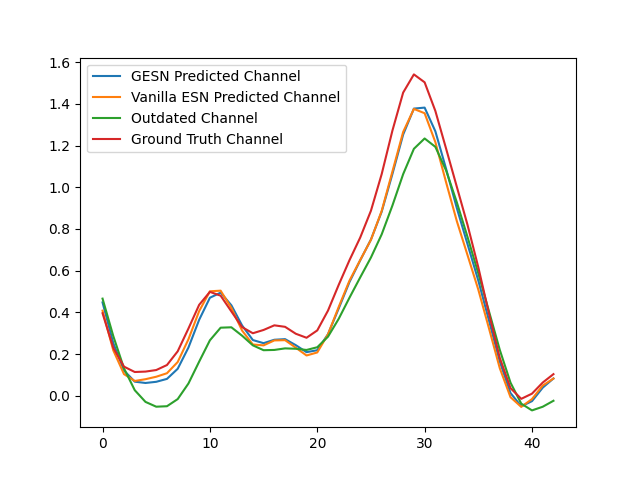
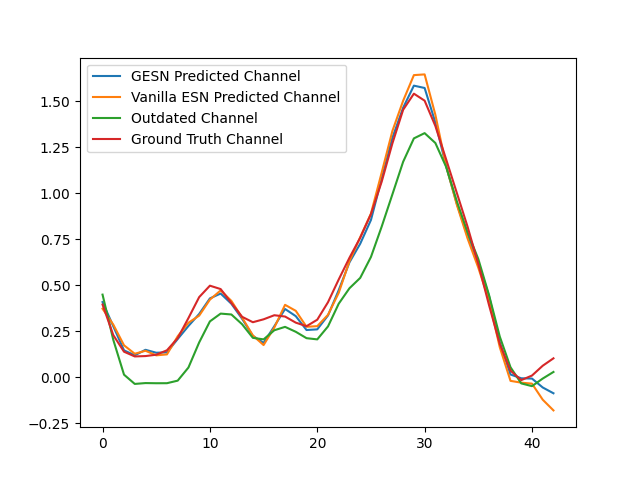
adding edge weighting to gesn

diff --git a/dmimo/channel/gesn_pred_freq_mimo.py b/dmimo/channel/gesn_pred_freq_mimo.py
@@ -9,7 +9,18 @@ import itertools
 
 class gesn_pred_freq_mimo:
 
-    def __init__(self, architecture, len_features=None, num_rx_ant=8, num_tx_ant=8, max_adjacency='all', method='per_node_pair', num_neurons=None):
+    def __init__(self, 
+                architecture, 
+                len_features=None, 
+                num_rx_ant=8, 
+                num_tx_ant=8, 
+                max_adjacency='all', 
+                method='per_node_pair', 
+                num_neurons=None,
+                cp_len=64,
+                num_subcarriers=512,
+                subcarrier_spacing=15e3,
+                edge_weighting_method='model_based'):
         
         ns3_config = Ns3Config()
         self.rc_config = RCConfig()
@@ -47,6 +58,10 @@ class gesn_pred_freq_mimo:
         self.reg = self.rc_config.regularization
         self.enable_window = self.rc_config.enable_window
         self.history_len = self.rc_config.history_len
+        self.edge_weighting_method = edge_weighting_method
+        self.cp_len = cp_len
+        self.num_subcarriers = num_subcarriers
+        self.subcarrier_spacing = subcarrier_spacing
 
         seed = 10
         self.RS = np.random.RandomState(seed)
@@ -62,6 +77,7 @@ class gesn_pred_freq_mimo:
             self.num_tx_nodes = int((self.N_t - ns3_config.num_bs_ant)/ns3_config.num_ue_ant) + 1
             self.num_rx_nodes = int((self.N_r - ns3_config.num_bs_ant)/ns3_config.num_ue_ant) + 1
             self.N_v = self.num_tx_nodes * self.num_rx_nodes                                            # number of vertices in the graph
+            self.N_e = int((self.N_v*(self.N_v-1))/2)                                                   # number of edges in the graph (assumes fully connected)
             if self.rc_config.treatment == 'SISO':
                 self.N_f = self.N_RB                                                                        # length of feature vector for each vertex
             else:
@@ -89,7 +105,7 @@ class gesn_pred_freq_mimo:
         # Initialize adjacency matrix (currently static for all time steps)
         if max_adjacency == 'all':
             self.max_adjacency = self.N_v
-        elif max_adjacency == 'k_nearest_neighbors':
+        elif max_adjacency == 'k_nearest_neighbours':
             raise ValueError("\n The knn clustering method has not yet been implemented")
         else:
             self.max_adjacency = max_adjacency
@@ -238,6 +254,9 @@ class gesn_pred_freq_mimo:
             channel_train_gt_list = [curr_channels[-num_training_steps:, rx_idx, tx_idx, :] for rx_idx in range(len(rx_ant_idx)) for tx_idx in range(len(tx_ant_idx))]
             channel_test_input_list = [curr_channels[-self.syms_per_subframe:, rx_idx, tx_idx, :] for rx_idx in range(len(rx_ant_idx)) for tx_idx in range(len(tx_ant_idx))]
 
+            # Weight graph edges
+            self.adjacency_matrix = self.cal_edge_weights(edge_weighting_method=self.edge_weighting_method, csi_history=curr_channels)
+
             # Train the model
             pred_channel_training = self.fitting_time(channel_train_input_list, channel_train_gt_list)
 
@@ -254,6 +273,44 @@ class gesn_pred_freq_mimo:
         channel_pred = tf.convert_to_tensor(channel_pred)
         channel_pred = tf.transpose(channel_pred, perm=[1,2,3,0])
         return channel_pred
+    
+    def cal_edge_weights(self, edge_weighting_method, csi_history):
+        
+        if edge_weighting_method == 'none':
+            adjacency_matrix = np.ones((self.N_v, self.N_v)) - np.eye(self.N_v)
+        elif edge_weighting_method == 'model_based':
+            # Calculate delays:
+            h_time_csi = np.fft.ifft(csi_history, axis=-1)
+            power = np.abs(h_time_csi) ** 2
+            range_power = np.max(power, axis=-1) - np.min(power, axis=-1)
+            threshold = np.min(power, axis=-1) + 0.1 * range_power
+            threshold = threshold[..., np.newaxis]
+            significant_taps = power > threshold
+            
+            # Generate all combinations of TX and RX antennas
+            num_rx_antennas = h_time_csi.shape[1]
+            num_tx_antennas = h_time_csi.shape[2]
+            antenna_combinations = list(itertools.product(range(num_rx_antennas), range(num_tx_antennas)))
+            adjacency_matrix = np.ones((self.N_v, self.N_v))
+            for idx1, (rx_1, tx_1) in enumerate(antenna_combinations):
+                for idx2 in range(idx1 + 1, len(antenna_combinations)):  # Avoid already-selected pairs
+                    rx_2, tx_2 = antenna_combinations[idx2]
+
+                    # print('calculating correlation between {}_{} and {}_{}'.format(rx_1, tx_1, rx_2, tx_2))
+                    # print('idx_1: {}, idx_2: {}'.format(idx1, idx2))
+
+                    taps_1 = significant_taps[:, rx_1, tx_1, :].flatten()  # Flatten across symbols and resource blocks
+                    taps_2 = significant_taps[:, rx_2, tx_2, :].flatten()
+
+                    # Compute correlation coefficient
+                    corr_value = np.corrcoef(taps_1, taps_2)[0, 1]
+                    
+                    # store weights (correlation coefficients) in adjacency matrix
+                    adjacency_matrix[idx1, idx2] = corr_value
+                    adjacency_matrix[idx2, idx1] = corr_value  # Symmetric for undirected graph
+
+        return adjacency_matrix
+
     
     def siso_predict_tmp(self, h_freq_csi_history):
 
@@ -369,7 +426,7 @@ class gesn_pred_freq_mimo:
     def init_weights(self):
 
         matrices = []
-        for _ in range(self.max_adjacency):
+        for _ in range(self.N_v):
             result = self.sparse_mat(self.N_n_per_vertex, self.N_n_per_vertex)
             matrices.append(result)
         self.W_N = np.concatenate(matrices, axis=1)
@@ -496,9 +553,10 @@ class gesn_pred_freq_mimo:
     def return_neighbours_states(self, vertex_idx, internal_states):
 
         if self.max_adjacency == self.N_v:
-            return internal_states
 
-
+            curr_adjacency = self.adjacency_matrix[vertex_idx, :]
+            repeated_adjacency = np.repeat(curr_adjacency, self.N_n_per_vertex)
+            return internal_states * repeated_adjacency
 
     def complex_tanh(self, Y):
         return np.tanh(np.real(Y)) + 1j * np.tanh(np.imag(Y))

diff --git a/dmimo/mu_mimo_gesn_test.py b/dmimo/mu_mimo_gesn_test.py
@@ -171,7 +171,8 @@ class MU_MIMO(Model):
                 rc_predictor = standard_rc_pred_freq_mimo('MU_MIMO', num_rx_ant = 4 + self.cfg.num_rx_ue_sel*2)
             elif self.cfg.predictor == 'gesn':
                 rc_predictor = gesn_pred_freq_mimo('MU_MIMO', num_rx_ant = 4 + self.cfg.num_rx_ue_sel*2, 
-                                                    num_tx_ant=self.cfg.num_tx_ue_sel*2 + 4, max_adjacency='all', method='per_node_pair', num_neurons=16)
+                                                    num_tx_ant=self.cfg.num_tx_ue_sel*2 + 4, max_adjacency='all', method='per_node_pair', 
+                                                    num_neurons=16, edge_weighting_method='model_based')
             
             # Get CSI history
             # TODO: optimize channel estimation and optimization procedures (currently very slow)
@@ -235,7 +236,7 @@ class MU_MIMO(Model):
                 plt.plot(np.real(h_freq_csi_true[0, debug_rx_ant, debug_tx_ant, :, debug_ofdm_sym]), label="Ground Truth Channel")
                 plt.legend()
                 plt.savefig('prediction_comparison')
-                plt.show()
+                # plt.show()
             plot = False
 
             h_freq_csi = rc_predictor.rb_demapper(h_freq_csi)
@@ -594,15 +595,20 @@ def sim_mu_mimo_all(cfg: SimConfig):
 
         total_cycles += 1
         cfg.first_slot_idx = first_slot_idx
-        try:
-            curr_pred_nmse_gesn, curr_pred_nmse_vanilla = sim_mu_mimo(cfg)
+        # try:
+        #     curr_pred_nmse_gesn, curr_pred_nmse_vanilla = sim_mu_mimo(cfg)
 
-            pred_nmse_gesn.append(curr_pred_nmse_gesn)
-            pred_nmse_vanilla.append(curr_pred_nmse_vanilla)
+        #     pred_nmse_gesn.append(curr_pred_nmse_gesn)
+        #     pred_nmse_vanilla.append(curr_pred_nmse_vanilla)
 
-        except:
-            print("Continued \n")
-            continue
+        # except:
+        #     print("Continued \n")
+        #     continue
+
+        curr_pred_nmse_gesn, curr_pred_nmse_vanilla = sim_mu_mimo(cfg)
+
+        pred_nmse_gesn.append(curr_pred_nmse_gesn)
+        pred_nmse_vanilla.append(curr_pred_nmse_vanilla)
 
 
 

diff --git a/sims/sim_mu_mimo_kpi.py b/sims/sim_mu_mimo_kpi.py
@@ -13,7 +13,6 @@ import numpy as np
 import tensorflow as tf
 
 from dmimo.config import SimConfig
-# from dmimo.mu_mimo_kpi import sim_mu_mimo_all
 from dmimo.mu_mimo_gesn_test import sim_mu_mimo_all
 
 
@@ -66,7 +65,7 @@ if __name__ == "__main__":
 
     # Simulation settings
     cfg = SimConfig()
-    cfg.total_slots = 65        # total number of slots in ns-3 channels
+    cfg.total_slots = 32        # total number of slots in ns-3 channels
     cfg.start_slot_idx = 30     # starting slots (must be greater than csi_delay + 5)
     cfg.csi_delay = 4           # feedback delay in number of subframe
     cfg.cfo_sigma = 0.0         # in Hz
@@ -76,7 +75,7 @@ if __name__ == "__main__":
         mobility = 'high_mobility'
         drop_idx = '7'
         # rx_ues_arr = [1,2,4,6]
-        rx_ues_arr = [1]
+        rx_ues_arr = [4]
     cfg.ns3_folder = "ns3/channels_" + mobility + '_' + drop_idx + '/'
 
     folder_name = os.path.basename(os.path.abspath(cfg.ns3_folder))
